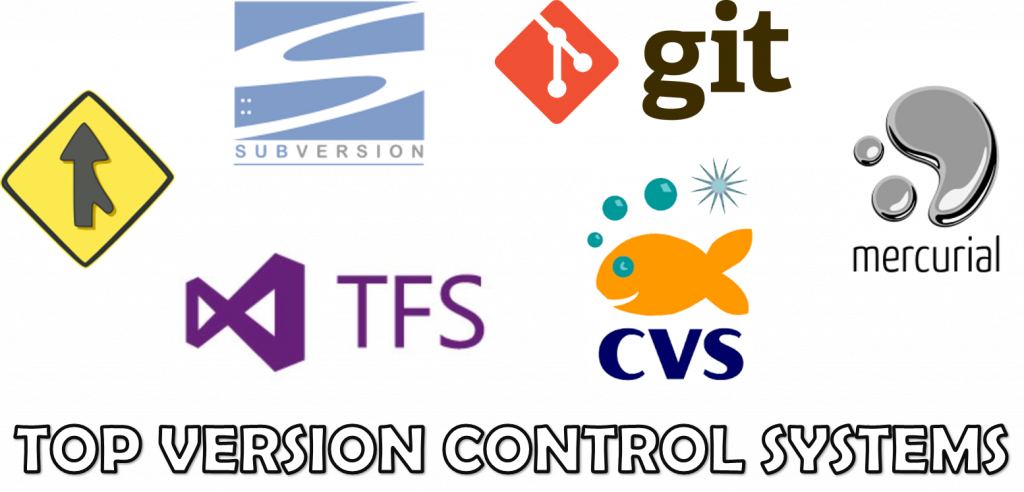
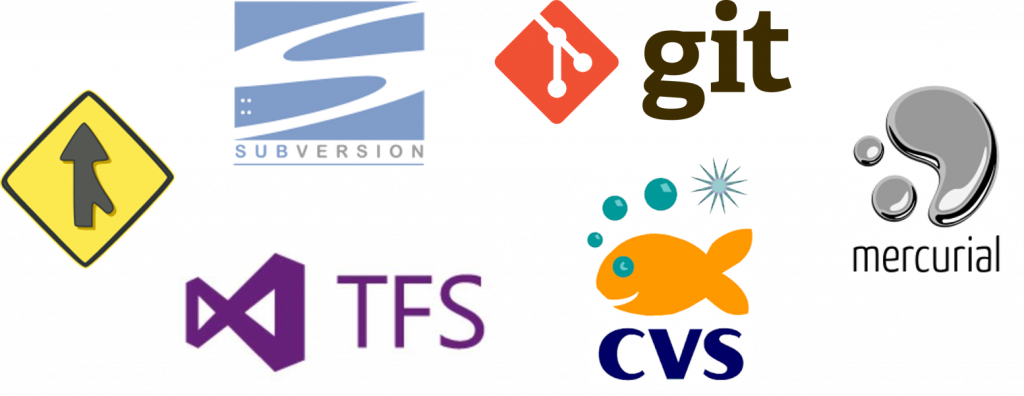
Edited imaged

diff --git a/assets/css/software_vcs.css b/assets/css/software_vcs.css
@@ -1,7 +1,3 @@
 img.title {
-  width: 612px;
-  height: 246px;
-
-  object-fit: cover;
-  object-position: 100% 0;
+  width: 100%;
 }
